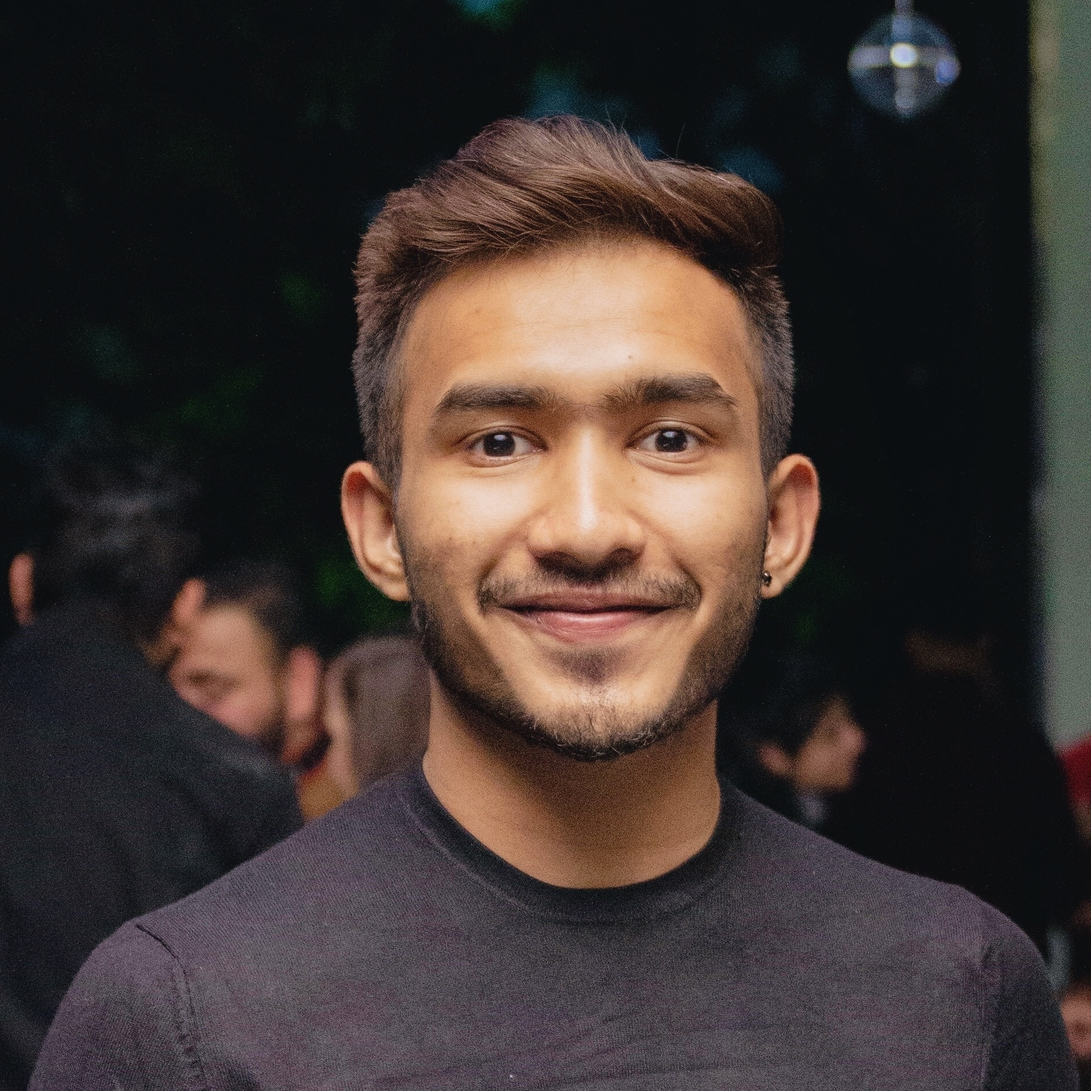
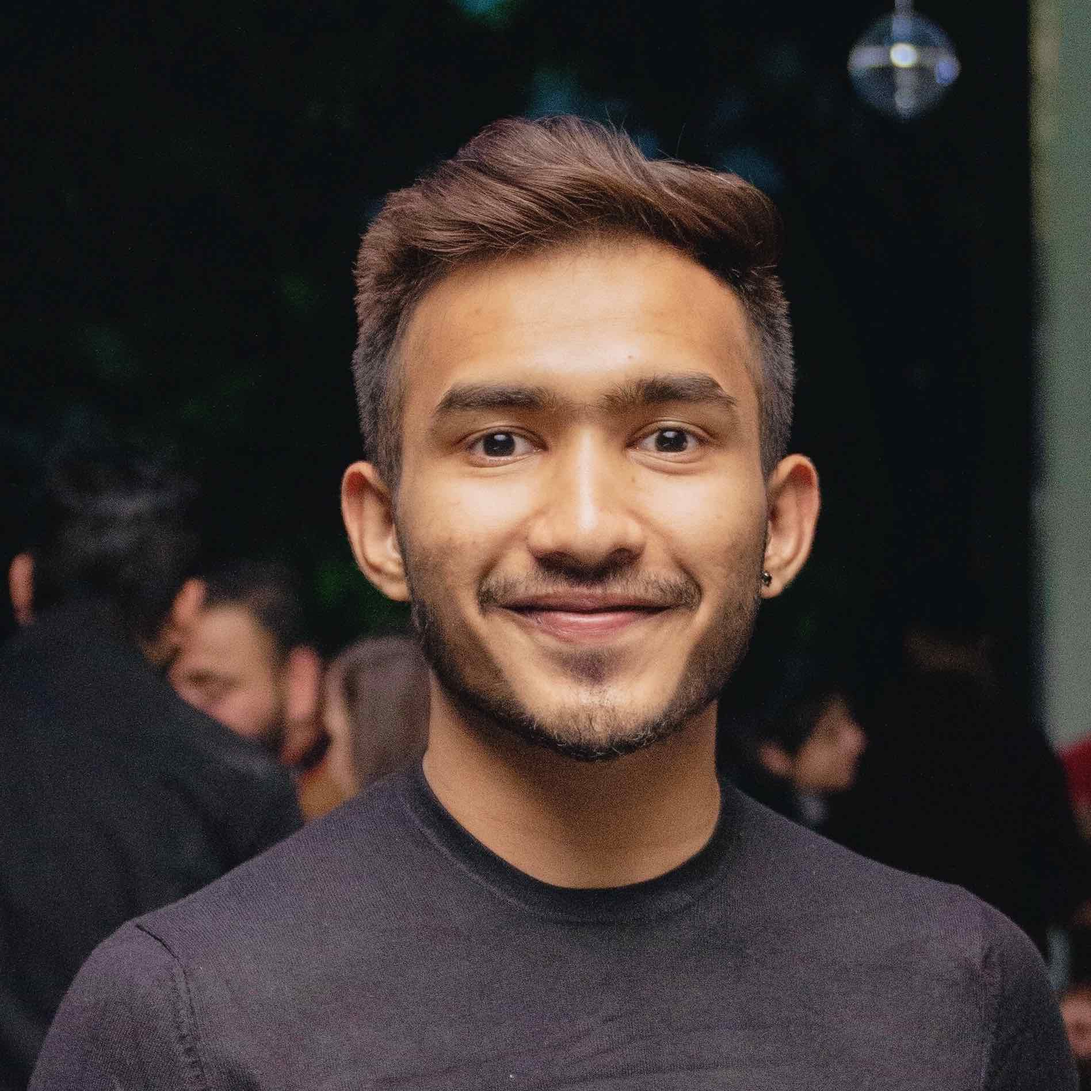
full site
- files compressed
- made v1 files (html css js)

diff --git a/coaches.js b/coaches.js
@@ -28,7 +28,7 @@ let coaches = [
       "UTC": "-5",
       "diff": { "hours": -5, "minutes": 0 },
       "available": [9, 17],
-      "profpic": "img/Jenn.png",
+      "profpic": "img/Jenn.jpg",
       "description": "I am a frontend developer with expertise in CSS styling, data visualizations (using d3.js and chart.js), and UI/UX design. I am a bit quirky with a touch of fanciful imagination and a lover of shiny tech gadgets. I belive sharing memes is a true love language. I aspire to make the world a better place one smile at a time. My pronouns are She/Her.",
       "slack": { "userId": "U012QP89WTB", "profileSearchUrl": "https://app.slack.com/client/T011D0D7T54/browse-people/user_profile/" },
       "skills":"HTML, CSS, JavaScript, DOM, Git, GitHub",
@@ -52,7 +52,7 @@ let coaches = [
       "UTC": "-4",
       "diff": { "hours": -4, "minutes": 0 },
       "available": [17, 22],
-      "profpic": "img/Elvis.png",
+      "profpic": "img/Elvis.jpg",
       "description": "My name is Elvis Moyolema yeah like Elvis Presley. I recently graduated from LaGuardia Community College with an Associates Degree in Computer Science and ofc I still want to thrive for more, so I’m planning to attend Queens College this Fall 2020. I’m one of the new Success Coaches in this wonderful group, and as many of you I’m still learning and challenging myself to do great things with JS. I also speak Spanish, so you could ask your questions in Spanish to me and I will get back to you as soon as possible.",
       "slack": { "userId": "U012MFM6C20", "profileSearchUrl": "https://app.slack.com/client/T011D0D7T54/browse-people/user_profile/" },
       "skills":"HTML, CSS, JavaScript, DOM, Git, GitHub",
@@ -77,7 +77,7 @@ let coaches = [
       "UTC": "+1",
       "diff": { "hours": 1, "minutes": 0 },
       "available": [20, 23],
-      "profpic": "img/Aziz.png",
+      "profpic": "img/Aziz.jpg",
       "description":
         "My name is Aziz Manai a computer sciences student, coding is my passion, I know javascript and a few other programming languages like c/c++ and I can help you a lot with HTML, CSS & bootstrap too, also entrepreneurship excites me so I hope that I’ll have my own IT startup after graduating, One last thing about myself is that I joined success coaches team because my biggest satisfaction is when I provide help to someone... and you can we can speak even in french & Arabic too",
       "slack": { "userId": "U012REL2XCL", "profileSearchUrl": "https://app.slack.com/client/T011D0D7T54/browse-people/user_profile/" },
@@ -103,7 +103,7 @@ let coaches = [
       "UTC": "+1",
       "diff": { "hours": 1, "minutes": 0 },
       "available": [9, 17],
-      "profpic": "img/Yousseff.JPG",
+      "profpic": "img/Yousseff.jpg",
       "description":
         "I am a JavaScript Developer and a Microsoft Student Partner. I am passionate about CODING and new technologies. AND OF COURSE I LOVE PIZZA",
       "slack": { "userId": "U012C8ZKXNF", "profileSearchUrl": "https://app.slack.com/client/T011D0D7T54/browse-people/user_profile/" },
@@ -164,7 +164,7 @@ let coaches = [
       "UTC": "+5:30",
       "diff": { "hours": 5, "minutes": 30 },
       "available": [19,22],
-      "profpic": "img/gaurav.png",
+      "profpic": "img/Gaurav.jpg",
       "description": "Located in India! A web developer by profession having close to 7 years of experience. <br> I enjoy sharing my knowledge and experience with those who seek! <br>Profit With Javascript has given me an amazing platform to connect with people from all walks of life. Looking forward to start my journey as a tutor and a freelancer.",
       "slack": { "userId": "U011D000RNZ", "profileSearchUrl": "https://app.slack.com/client/T011D0D7T54/browse-people/user_profile/" },
       "skills":"HTML, CSS, JavaScript, DOM, Git, GitHub",
@@ -224,7 +224,7 @@ let coaches = [
       "UTC": "+8",
       "diff": { "hours": 8, "minutes": 0 },
       "available": [13, 24],
-      "profpic": "img/Taty.jpg",
+      "profpic": "img/Tatyana.jpg",
       "description": "Currently located in the Philippines, I graduated in Chemistry and Material Science Engineering. Coding has always been something I thought I could do but this is the first time I really feel like I belong in the digital world. I love algorithms, rubick's cubesss, coffee, and surfing! I've also been told I am a good teacher, no matter the subject! *wink*",
       "slack": { "userId": "U012BAWNUG5", "profileSearchUrl": "https://app.slack.com/client/T011D0D7T54/browse-people/user_profile/" },
       "skills":"HTML, CSS, JavaScript, DOM, Git, GitHub",

diff --git a/v1.html b/v1.html
@@ -41,19 +41,23 @@
                 <a href="" class="nav-link" href="#coaches">Coaches</a>
             </li>
             <li class="nav-item">
-                <a href="" class="nav-link" href="#">Profiles</a>
+                <a href="" class="nav-link" href="#gallery">Profiles</a>
             </li>
         </ul>
-        <a href="" class="mx-auto navbar-brand" href="#">JAVASCRIPT SUCCESS COACHES</a>
-        <ul class="navbar-nav">
+        <a href="" class="mx-auto navbar-brand" href="#welcome"><h3>JAVASCRIPT SUCCESS COACHES</h3></a>
+        <ul class="navbar-nav text-right">
             <li class="nav-item">
-                <a href="" class="nav-link" href="#">Got Feedback?</a>
+                <a href="" class="nav-link" href="#feedback">Got Feedback?</a>
             </li>
             <li class="nav-item">
-                <a href="" class="nav-link" href="#">Apply to be a JSC</a>
+                <a href="https://airtable.com/shrFosoZnqzwllDuc" class="nav-link" target="_blank">Apply to be a JSC</a>
             </li>
         </ul>
     </nav>
+
+    <div class="progress-container">
+        <div class="progress-bar" id="myBar"></div>
+    </div>
 
     <!-- WELCOME -->
     <div id="welcome" style="background-color: grey; background: url('img/call.gif'); height: 100vh;">
@@ -129,6 +133,7 @@
         </div>
     </div>
 
+    <!-- LIST OF COACHES -->
     <div id="coaches" style="background-color: white;">
         <div class="container py-5 text-dark d-flex flex-column justify-content-start align-items-center text-center">
             <h1>LIST OF SUCCESS COACHES</h1>
@@ -142,7 +147,55 @@
         </div>
     </div>
 
+    <!-- PROFILE DESCRIPTION -->
+    <div id="gallery" class="text-dark" style="background-color: white;">
+        <div class="swiper-container">
+            <!-- Additional required wrapper -->
+            <div class="swiper-wrapper">
+                    <!-- Slides -->
+            </div>
+
+            <!-- If we need pagination -->
+            <div class="swiper-pagination"></div>
     
+            <!-- If we need navigation buttons -->
+            <div class="swiper-button-prev"></div>
+            <div class="swiper-button-next"></div>
+    
+            <!-- If we need scrollbar -->
+            <div class="swiper-scrollbar"></div>
+        </div>
+    </div>
+
+    <!-- FEEDBACK -->
+    <div id="feedback" class="bg-danger" style="height: fit-content;">
+        <div class="container py-5 text-light d-flex flex-row flex-wrap justify-content-around align-items-center text-center">
+            <h1 class="text-center">We want to hear<br>your thoughts!</h1>
+            <iframe id="airtable-fb"
+            src="https://airtable.com/embed/shrW8szPpFLhtlKY1"
+            frameborder="0"
+            onmousewheel=""
+            width="400px"
+            height="500px"
+            style="background: transparent; border: none;"
+            ></iframe>
+        </div>
+    </div>
+
+    <!-- FOOTER -->
+    <div id="footer">
+        <div class="container text-center text-dark">
+            <p class="my-5">
+              This site was entirely coded from scratch by the success coaches with
+              the power of bootstrap. Word of warning, you do not need to code
+              websites from scratch. It's not something we're entirely proud of!
+              Updates coming soon.
+            </p>
+        </div>
+    </div>
+
+    
+
     <script src="https://unpkg.com/aos@2.3.1/dist/aos.js"></script>
     <script>
       AOS.init();

diff --git a/script-v1.js b/script-v1.js
@@ -35,15 +35,78 @@ displayTimeNow = (coach) => {
     return n;
 };
 
+displayCoachSlide = () => {
+    setTimeout(() => {
+      var mySwiper = new Swiper(".swiper-container", {
+        // Optional parameters
+        direction: "horizontal",
+        loop: true,
+        spaceBetween: 0,
+        autoplay: 3000,
+        speed: 800,
+  
+        // If we need pagination
+        pagination: {
+          el: ".swiper-pagination",
+        },
+  
+        // Navigation arrows
+        navigation: {
+          nextEl: ".swiper-button-next",
+          prevEl: ".swiper-button-prev",
+        },
+  
+        // And if we need scrollbar
+        scrollbar: {
+          el: ".swiper-scrollbar",
+        },
+      });
+    }, 0);
+    let slidesHTML = "";
+    coaches.forEach((coach) => {
+      slidesHTML += `
+          <div class="p-5 swiper-slide">
+            <div class="coach-info-container">
+              <div class="profile-picture" style="background-image: url(${coach.profpic})"></div>
+              <div class="coach-info">
+                <h1>${coach.name}</h1>
+                <p>${coach.description}</p>
+              </div>
+            </div>
+            <div class="skill-container">
+                <h2>Statistics</h2>
+                <p><span>Skills:</span> ${coach.skills}</p>
+                <p><span>Rating:</span> ${coach.rating}</p>
+                <p><span>Clients:</span> ${coach.clients}</p>
+            </div>
+          </div>
+      `;
+    });
+    document.querySelector(".swiper-wrapper").innerHTML = slidesHTML;
+};
+
+scrollBar = () => {
+    var winScroll = document.body.scrollTop || document.documentElement.scrollTop;
+    var height =
+      document.documentElement.scrollHeight -
+      document.documentElement.clientHeight;
+    var scrolled = (winScroll / height) * 100;
+    document.getElementById("myBar").style.width = scrolled + "%";
+};
+
 
 let intervalId;
 window.onload = function () {
+    showCoaches();
+    AOS.refresh();
+    intervalId = setInterval(() => showCoaches(), 1000);
+    displayCoachSlide();
+};
 
-  showCoaches();
-  AOS.refresh();
-  intervalId = setInterval(() => showCoaches(), 1000);
+window.onscroll = function () {
+    scrollBar();
 };
 
 window.onbeforeunload = () => {
-  clearInterval(intervalId);
+    clearInterval(intervalId);
 };

diff --git a/style-v1.css b/style-v1.css
@@ -3,14 +3,126 @@ h1, h2, h3, p {
     margin: 0;
 }
 
+h1, h2, h3 {
+    font-family: 'Bebas Neue';
+}
+
+h1 {
+    font-size: 5rem;
+}
+
+h2 {
+    margin: 5px 0;
+    font-size: 3.5rem;
+}
+
+h3 {
+    margin: 5px 0;
+    font-size: 2rem;
+}
+
+p {
+    font-family: Raleway, sans-serif;
+    font-size: large;
+    margin: 10px 0;
+}
+
+.swiper-container {
+    width: 100vw;
+    min-height: 450px;
+}
+
+.swiper-slide {
+    width: 100%;
+    height: 100%;
+    background-color: white;
+    display: flex;
+    justify-content: center;
+    align-items: flex-start;
+    flex-direction: row;
+    flex-wrap: wrap;
+}
+
+.coach-info-container {
+    display: flex;
+    justify-content: center;
+    align-items: center;
+    flex-wrap: wrap;
+    max-width: 900px;
+    margin: 0 20px;
+}
+
+.profile-picture {
+    background-color: red;
+    width: 300px;
+    height: 300px;
+    border-radius: 50%;
+    margin: 10px 0;
+    background-size: cover;
+    background-position: center;
+}
+
+.coach-info {
+    padding: 20px;
+    max-width: 500px;
+}
+
+.coach-info p {
+    width: 100%;
+    max-height: 250px;
+    overflow-y: auto;
+}
+
+.skill-container {
+    padding: 20px;
+    width: 350px;
+}
+
+.progress-container {
+    position: fixed;
+    z-index: 100;
+    bottom: 0;
+    width: 100%;
+    height: 8px;
+    background: #f7f7f7;
+}
+
+.progress-bar {
+    height: 8px;
+    background: #5bc0de;
+    width: 0%;
+}
+
+@media (max-width: 1500px) {
+    .coach-info, .skill-container {
+        padding: 5px 20px;
+        width: 500px;
+    }
+    .coach-info p {
+        max-height: none;
+    }
+}
+
 @media (max-width: 600px) {
     .navbar-brand {
         display: none;
+    }
+
+    .coach-info, .skill-container {
+        padding: 5px 20px;
+        width: 80vw;
+        height: auto;
     }
 }
 
 @media (max-height: 550px) {
     #welcome {
         height: 550px;
+    }
+}
+
+@media (max-height: 450px) {
+    #airtable-fb {
+        width: 80vw;
     }
 }
